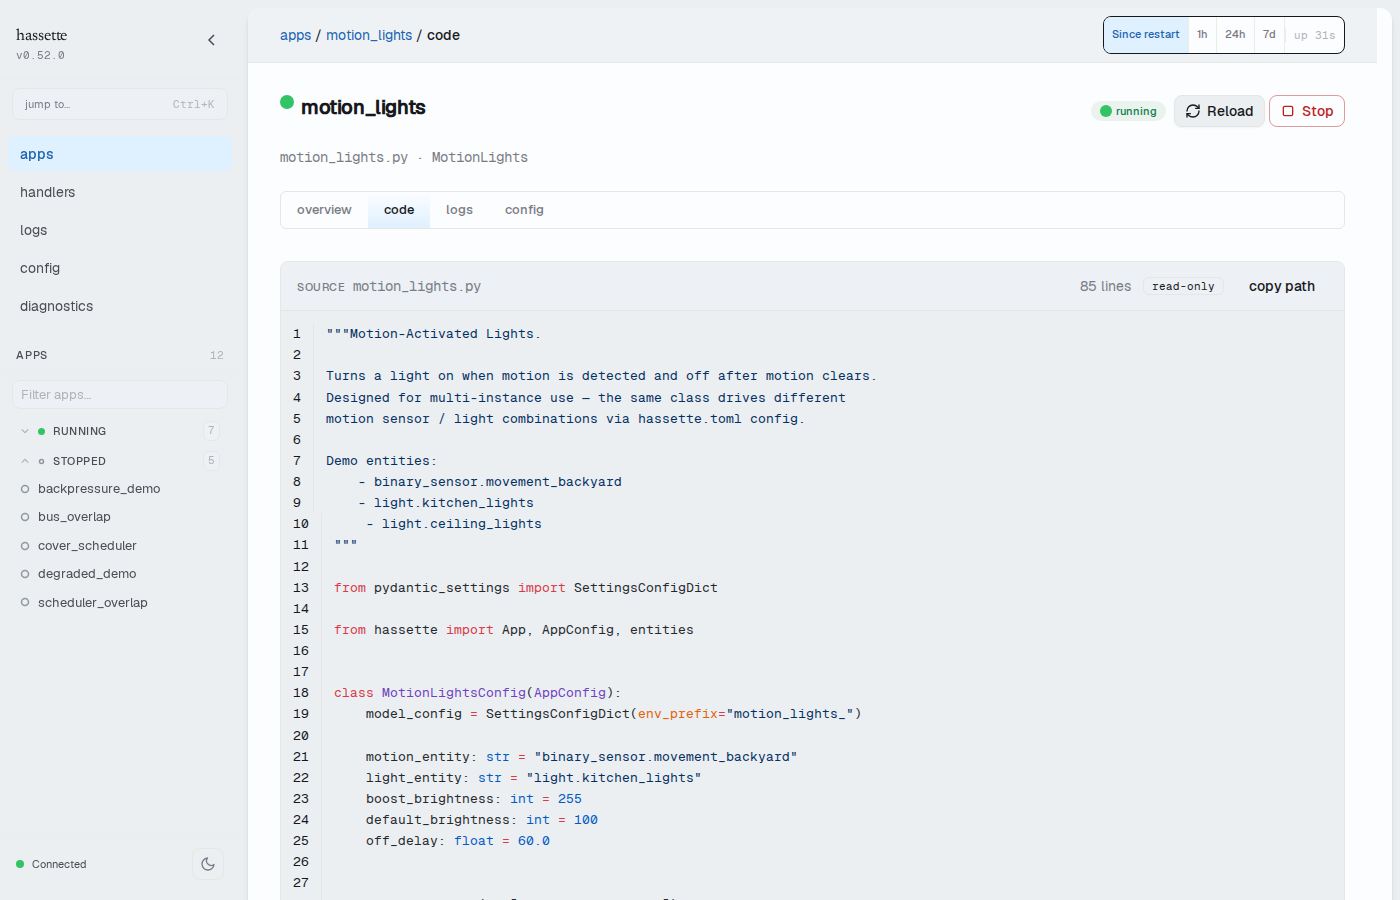
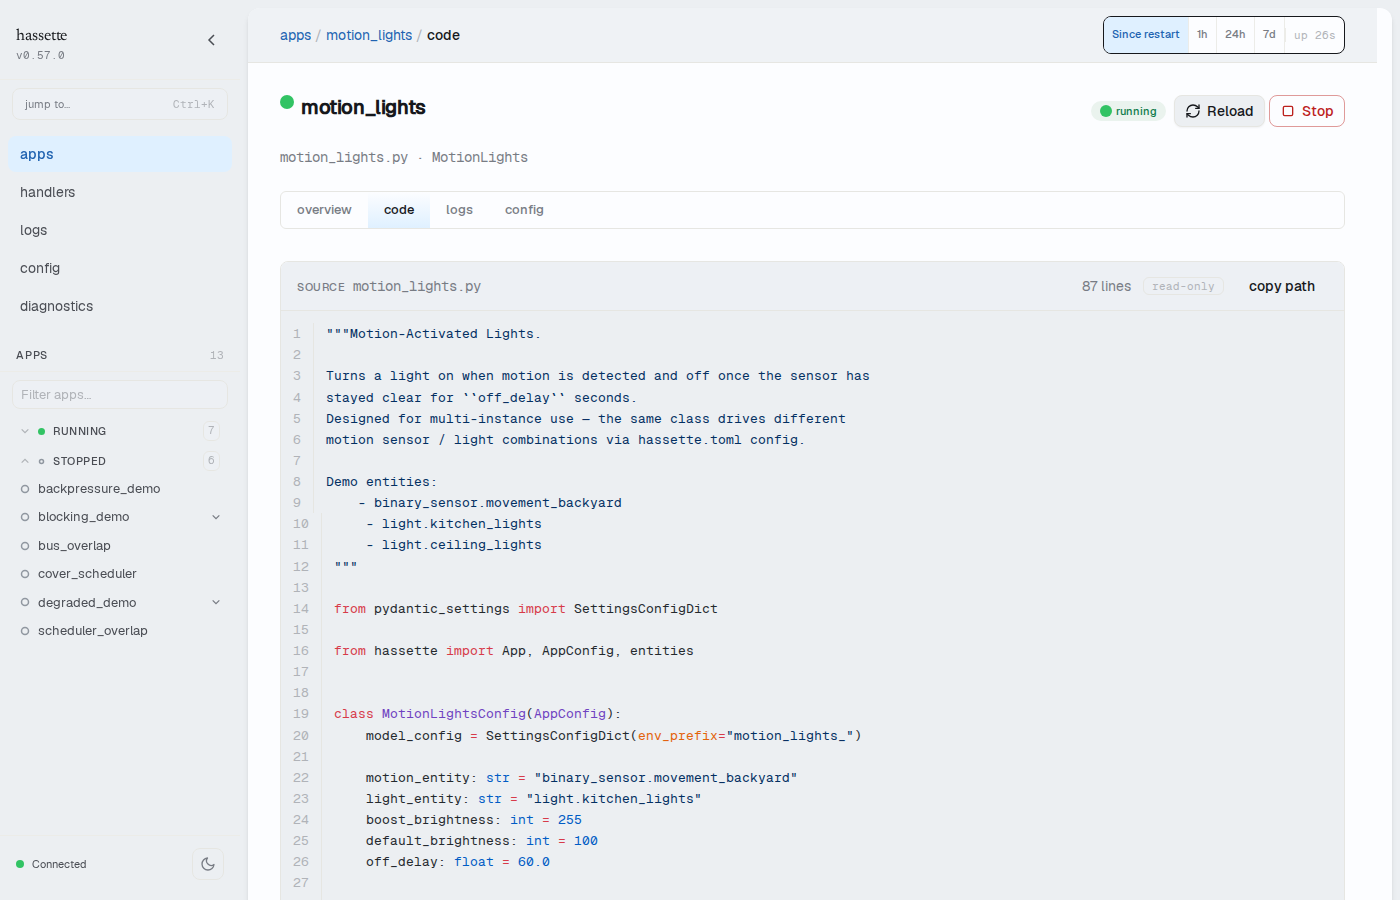
fix: keep motion_lights example from turning the light off while motion is back
The "off" subscription used debounce with changed_to="off", so the "on"
event never reached its timer and the light still turned off after
off_delay even when motion returned. It now uses duration=, which fires
only if the sensor holds "off" for off_delay and cancels when it flips
back. The debounce recipe prose now says only rising readings reset its
timer, so a drop does not cancel the pending call.

Decision: use duration= as the issue specifies, matching the README/docs
landing examples from #2785; passed over keeping debounce and re-checking
motion state inside the handler, which keeps the misleading pattern.

closes #2787

diff --git a/examples/motion_lights.py b/examples/motion_lights.py
@@ -1,6 +1,7 @@
 """Motion-Activated Lights.
 
-Turns a light on when motion is detected and off after motion clears.
+Turns a light on when motion is detected and off once the sensor has
+stayed clear for ``off_delay`` seconds.
 Designed for multi-instance use — the same class drives different
 motion sensor / light combinations via hassette.toml config.
 
@@ -45,12 +46,13 @@ class MotionLights(App[MotionLightsConfig]):
             name="motion_lights.on_motion_detected",
         )
 
-        # Motion cleared → turn light off after a delay
+        # Motion cleared → turn light off once the sensor has stayed "off" for
+        # off_delay seconds. `duration` cancels the wait if motion comes back.
         await self.bus.on_state_change(
             cfg.motion_entity,
             changed_to="off",
             handler=self.on_motion_cleared,
-            debounce=cfg.off_delay,
+            duration=cfg.off_delay,
             name="motion_lights.on_motion_cleared",
         )
 

diff --git a/docs/pages/recipes/snippets/debounce_sensor.py b/docs/pages/recipes/snippets/debounce_sensor.py
@@ -6,7 +6,7 @@ DEBOUNCE_SECONDS = 10.0
 
 
 class DebounceSensorApp(App[AppConfig]):
-    """React to stable temperature changes and log when a threshold is crossed."""
+    """Log when a burst of rising temperature readings crosses a threshold."""
 
     async def on_initialize(self) -> None:
         await self.bus.on_state_change(
@@ -29,7 +29,7 @@ class DebounceSensorApp(App[AppConfig]):
 
         if new_temp >= THRESHOLD:
             self.logger.info(
-                "Temperature crossed %.1f°C threshold: %s → %.1f°C (stable for %ss)",
+                "Temperature crossed %.1f°C threshold: %s → %.1f°C (no further rise for %ss)",
                 THRESHOLD,
                 old_state.value,
                 new_temp,

diff --git a/docs/pages/recipes/debounce-sensor-changes.md b/docs/pages/recipes/debounce-sensor-changes.md
@@ -1,6 +1,6 @@
 # Debounce Sensor Changes
 
-Your outdoor temperature sensor reports a reading every few seconds. On a warm afternoon, it may emit a dozen near-identical values before settling. Reacting to each one produces redundant log entries and wasted service calls. This recipe waits until the sensor has been quiet for a set period before acting. It only fires when the temperature has risen.
+Your outdoor temperature sensor reports a reading every few seconds. On a warm afternoon, it may emit a dozen near-identical values before settling. Reacting to each one produces redundant log entries and wasted service calls. This recipe acts on rising temperatures only, and waits until the rises stop for a set period before acting.
 
 ## The Code
 
@@ -24,15 +24,15 @@ The section name (`debounce_sensor`) is the app key the `hassette` CLI commands 
 
 The bus (`self.bus`) delivers Home Assistant events to subscribed handlers — every `App` gets one, alongside `self.api` and `self.logger`. Handlers are `async def`; Hassette runs the event loop.
 
-`debounce=10.0` tells the bus to hold the handler until the sensor has been quiet for 10 seconds. Each new event that arrives during that window resets the timer. Rapid fluctuations are silently discarded, and the handler fires exactly once when the readings stop.
+`debounce=10.0` tells the bus to hold the handler until 10 seconds pass with no new rising reading. Each rising reading during that window resets the timer. The handler fires once, with the last rising reading, when the rises stop.
 
-`changed=C.Increased()` gates which events start the debounce timer in the first place. `C` is an alias for [`hassette.event_handling.conditions`](../core-concepts/bus/filtering.md), a module of ready-made value checks. `C.Increased()` passes only when the new state value is numerically greater than the old one. Drops and unchanged readings never start the timer.
+`changed=C.Increased()` gates which events start the debounce timer in the first place. `C` is an alias for [`hassette.event_handling.conditions`](../core-concepts/bus/filtering.md), a module of ready-made value checks. `C.Increased()` passes only when the new state value is numerically greater than the old one. Drops and unchanged readings never reach the debounce timer, so they neither start nor reset it. A drop during the window doesn't cancel the pending call: the handler still fires with the last rising reading, even if the sensor has since fallen. To act only on a value that has held steady, use `duration=` on `on_state_change` instead.
 
 `D.StateNew[states.SensorState]` is a [dependency injection](../core-concepts/bus/dependency-injection.md) annotation. `D` is an alias for `hassette.event_handling.dependencies` — Hassette inspects the handler's parameter types at registration and passes the extracted value in automatically. `D.StateNew` delivers the new state, already converted to a [`SensorState`][hassette.models.states.sensor.SensorState] object. `SensorState.value` is `str | None` — the framework sets it to `None` when the entity is `"unavailable"` or `"unknown"` — so the handler converts it to a `float` before comparing against `THRESHOLD`. The `try`/`except` guards against the `None` and non-numeric values that HA sensors report during startup.
 
 `name=` on `on_state_change` is required — it labels the listener in logs and in `hassette listener` output. Omitting it raises `TypeError` at registration time.
 
-When the stabilized temperature meets or exceeds `THRESHOLD`, a log line records the crossing, the previous value, and the debounce duration.
+When that last rising reading meets or exceeds `THRESHOLD`, a log line records the crossing, the previous value, and the debounce duration.
 
 `THRESHOLD`, `DEBOUNCE_SECONDS`, and the entity ID are module-level constants. Promoting them to typed fields on an [`AppConfig`][hassette.app.app_config.AppConfig] subclass — set per instance in `hassette.toml` — covers multiple sensors with a single class.
 
@@ -52,7 +52,7 @@ After the sensor emits a rising reading and 10 seconds of quiet pass, check invo
 hassette log --app debounce_sensor --since 5m
 ```
 
-The log shows one entry per stabilized crossing, not one per raw sensor event. If the sensor fluctuated three times during the quiet window, only the final stable value appears.
+The log shows one entry per burst of rising readings, not one per raw sensor event. If the sensor rose three times in quick succession, only the last of those rising values appears.
 
 ## Variations
 
